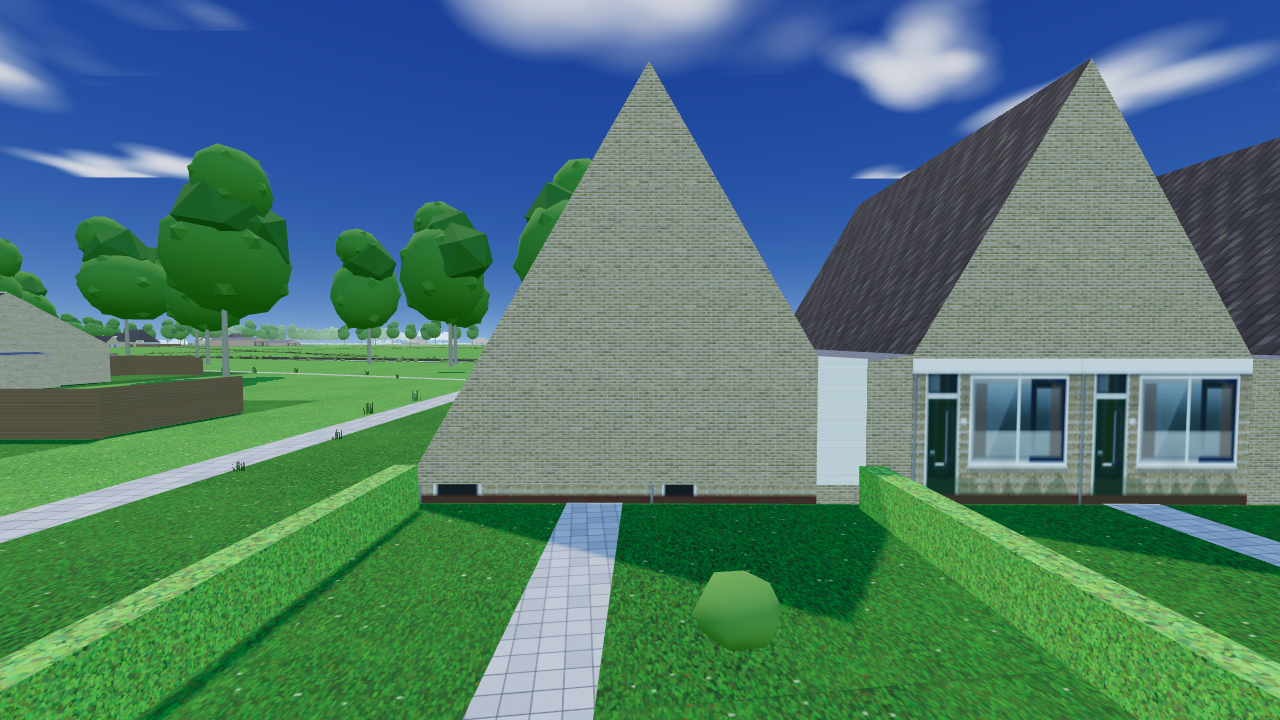
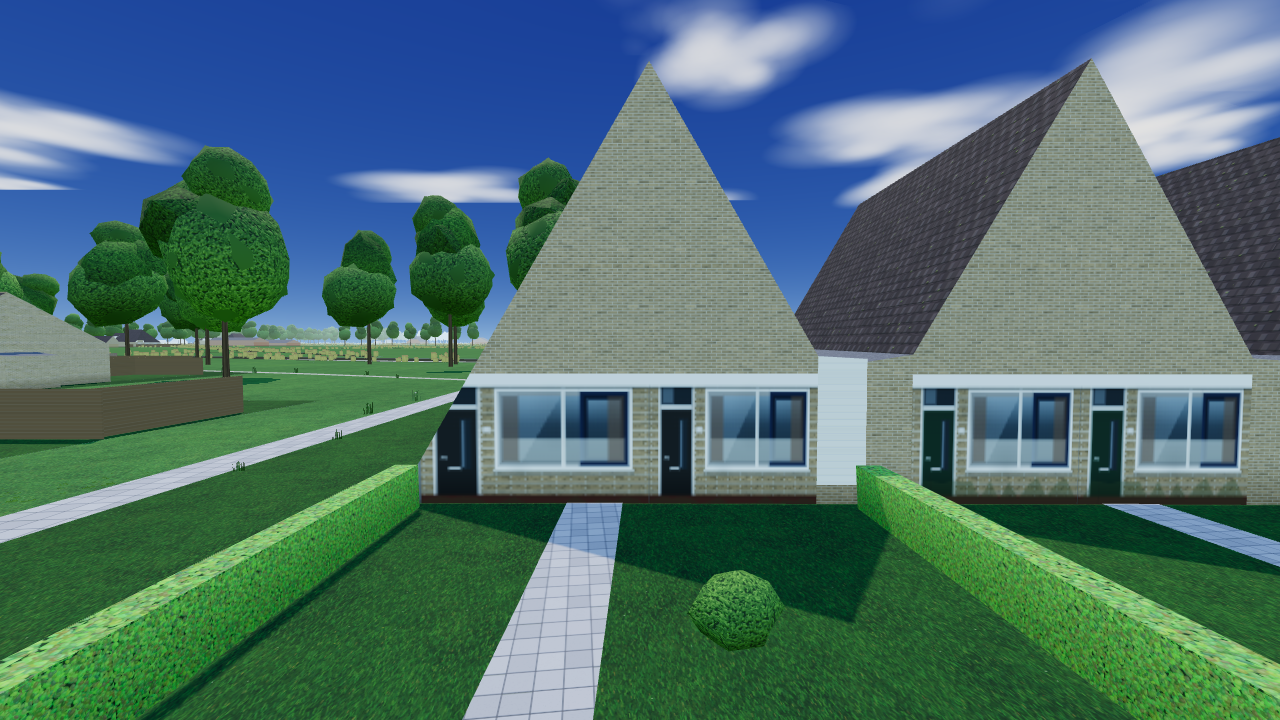
Stap 155: de avondshaders na het opstarten in stukjes, en de voorgevels nagemeten
- warmDeAvondOpInStukjes: het voorvertalen van de avondstand (15 s headless)
  gebeurt na het opstarten in 24 stukjes; voorbereidSpel wacht op avondBelofte
- opstarttest: de avondstand niet meer in het opstarten, en daarna vertaalt
  een heel avondbeeld niets meer
- npm run voorgeveltest: zeven stralen over de voorkant van elke woning,
  98,0 % op een gevel met deur of ramen; de Vang 28/10/12 nagemeten
- de foto van de Vang vervangen; open punt 15 af

Claude-Session: https://claude.ai/code/session_01Qq4V9hLBj33ACehDrT6xv8

diff --git a/js/main.js b/js/main.js
@@ -2139,10 +2139,14 @@ async function voorbereidSpel() {
       }
     } finally { voorbereiden = false; }
     if (lodBelofte) await lodBelofte;
+    if (avondBelofte) await avondBelofte;
     try { warmDeAvondOp(); } catch (e) { console.warn('avond voorverwarmen mislukt', e); }
     if (laag && !wasAan) laag.classList.remove('aan');
     if (zwart) { zwart.style.transition = ''; zwart.style.opacity = wasAan ? '1' : '0'; }
-  } else if (lodBelofte) await lodBelofte;
+  } else {
+    if (lodBelofte) await lodBelofte;
+    if (avondBelofte) await avondBelofte;
+  }
 }
 let lodFilmBij = null;              // waar de LOD tijdens het filmpje het laatst bijgewerkt is
 async function voorFilm() {
@@ -2715,6 +2719,9 @@ function loop() {
     }
   }
   if (voorbereiden) return;           // de intro wordt klaargezet (`voorFilm`)
+  // (stap 155) zolang de avondstand in stukjes vertaald wordt en je in het menu staat: geen eigen beeld ertussen
+  // (headless kostte elk beeld ertussen tientallen seconden; op een pc staat de achtergrond even stil)
+  if (avondBezig && !player.active) return;
   werkKeuzeKnoppenBij();
   const now = performance.now(); const dt = Math.min(0.05, (now - last) / 1000); last = now; time += dt;
   /*
@@ -3247,11 +3254,46 @@ function sfeerNu() { try { return sfeer; } catch { return null; } }
 function warmDeAvondOp() {
   metAvondlampen(() => renderer.render(scene, camera));
 }
-try { warmDeAvondOp(); } catch (e) { console.warn('avond voorverwarmen mislukt', e); }
+/*
+ (stap 155) Hetzelfde, maar na het opstarten en in stukjes. Het ene beeld met de avondlampen kostte headless 15 van de
+ 52 seconden vóór het spel klaarstond (opstarttest: "de rest van de opzet (2)"), terwijl je dan nog in het menu staat.
+ Nu staan alle zichtbare meshes in een lijst, en per stukje tekent hij alleen een vierentwintigste deel ervan, op één beeldpunt
+ (de schaar): wat three vertaalt hangt aan het materiaal, de lampen en de mist, niet aan de grootte van het beeld. Het
+ beeld van de hoofdlus erna tekent alles weer gewoon. `voorbereidSpel` (Start spel) wacht op `avondBelofte`.
+*/
+const AVOND_STUKJES = 24;        // headless 0,5–5 s per stukje, op een pc een tiende daarvan
+let avondBezig = false;
+async function warmDeAvondOpInStukjes() {
+  avondBezig = true;
+  try { return await avondStukjes(); } finally { avondBezig = false; }
+}
+async function avondStukjes() {
+  const lijst = [];
+  scene.traverseVisible(o => { if (o.material && (o.isMesh || o.isLine || o.isPoints || o.isSprite)) lijst.push(o); });
+  const per = Math.ceil(lijst.length / AVOND_STUKJES);
+  const vp = renderer.getViewport(new THREE.Vector4()), sc = renderer.getScissor(new THREE.Vector4()), scAan = renderer.getScissorTest();
+  for (let k = 0; k < AVOND_STUKJES; k++) {
+    await geefBeeldTerug();
+    const van = k * per, tot = Math.min(lijst.length, van + per);
+    try {
+      for (let i = 0; i < lijst.length; i++) lijst[i].visible = i >= van && i < tot;
+      renderer.setViewport(0, 0, 1, 1); renderer.setScissor(0, 0, 1, 1); renderer.setScissorTest(true);
+      metAvondlampen(() => renderer.render(scene, camera));
+    } catch (e) { console.warn('avond voorverwarmen mislukt', e); } finally {
+      for (const o of lijst) o.visible = true;
+      renderer.setViewport(vp); renderer.setScissor(sc); renderer.setScissorTest(scAan);
+    }
+  }
+  return lijst.length;
+}
+let avondBelofte = null;
 
 opstartStap('het eerste beeld');
 loop();
 opstartStap('na het eerste beeld');
+// (stap 155) de avondstand pas nu, in stukjes (zie `warmDeAvondOpInStukjes`)
+avondBelofte = warmDeAvondOpInStukjes().then(n => { console.log(`avond: ${n} meshes in ${AVOND_STUKJES} stukjes voorvertaald`); return n; },
+  e => { console.warn('avond voorverwarmen mislukt', e); return 0; });
 
 /*
  De wereld staat er; nu wachten we op de keuze uit het menu. Die kan al gemaakt
@@ -3283,7 +3325,7 @@ window.__game = {
   // de wapenpas en het voorvlak, voor tools/cliptest.mjs
   tekenWapen, cameraNear: CAMERA_NEAR,
   // het reliëf in één keer afmaken (de proeven), en hoever het is
-  reliëfAf, get reliëfBezig() { return !!reliëf; }, voorFilm, voorbereidSpel, zetVoorvlak, __envBakken: () => envBakken, get lodFilmBij() { return lodFilmBij; },
+  reliëfAf, get reliëfBezig() { return !!reliëf; }, get avondBelofte() { return avondBelofte; }, warmDeAvondOp, voorFilm, voorbereidSpel, zetVoorvlak, __envBakken: () => envBakken, get lodFilmBij() { return lodFilmBij; },
   // licht (tools/lichttest.mjs): de omgeving opnieuw bakken en de schaduwdoos
   bakOmgeving, werkOmgevingBij, zetSchaduwDoos, get omgevingGebakken() { return envBakken; }, sun,
   schaduw: { map: SHADOW_MAP, r: SHADOW_R, vooruit: SHADOW_VOORUIT },

diff --git a/CLAUDE.md b/CLAUDE.md
@@ -386,7 +386,7 @@ uit gaat) en naast de voordeur een **oprit** waar je auto blijft staan.
 
 Er is één `npm run <naam>test` en meestal een `<naam>shots` per onderwerp; ze
 staan allemaal in `tools/` en draaien via Playwright op een headless Chromium.
-De laatste die ertoe doen: `npm run voetgangertest` (stap 154: variatie, schaal nul, ≤ 4000 driehoeken, jas en paraplu, bankje, de Poiesz in en uit met de deuren, de fiets in het rek, bellen, schrik, grof tussen 200 en 350 m, geen nieuw programma) met `voetgangershots`; `npm run zuilengangtest` (stap 152: door de gang lopen, de winkel en het pand dicht, geen gras, de schuifdeuren, E naar binnen en buiten) met `zuilengangshots`; `npm run mensechttest` (sinds stap 153 ook oogwit, irissen op het gezicht, vier vingers, de haarlijn) met `gezichtshots`; `npm run autoechttest` (sinds stap 151 ook: portiergrepen plat in de flank, de uitlaat niet ver achter de bumper; de plas licht telt niet meer als mesh, dus weer groen); `npm run binnentest` (stap 151: van buiten steekt niets van het interieur uit; stap 150: de klokken niet ingezonken, de pookknop, de kijkhoek van de bestuurder en 78° in het spel; stap 149: het dashboard tot aan de voorruit, de hemel, spiegel en kleppen binnen de ruiten; `ALLEEN_MODELLEN=1` slaat het deel in het spel over; stap 146–148: ook de klokken te zien, de radio per zender, de nacht, één dashboard; het interieur van elke soort uit de ogen gemeten — het stuur vóór je, de klokken in beeld, vrij zicht door de voorruit, stuur en naald die meelopen, de pook; de doeken, de onderdelen, de stijlbekleding, de stoelen onder de hemel, het aantal driehoeken; en in het spel geen nieuw programma) met `binnenshots` (binnen_<soort>.png, met `BUITEN=1` van buiten, met `NACHT=1` 's nachts); `npm run politieslimtest` (stap 144, 49 controles: het zicht als getal, verstoppen aan een echte struik en in het bos, de hud VERSTOPT, 's nachts de zaklamp, de raakkans, dekking gezocht en gebruikt zonder schot vanuit de dekking, gericht zoeken, een achtertuin via de looproute, terug naar de auto, rammen, insluiten, omsingelen, de zaklamp vangt geen kogels, geen nieuwe shader) met `politieslimshots` (politie_dekking, politie_zaklamp, politie_verstopt); `npm run figurantentest` (stap 143: de stafauto in het bunkerdorp is het eigen model, de Duitsers van No Mercy 4 nooit door elkaar en ieder een eigen doel, rode flitsen zonder schade in No Mercy 4 en 5, een gewone Bewaking ongemoeid, het MG met schade 0); `npm run stafautotest` (stap 142, en sinds stap 145 het interieur: uit tot je erin zit, ogen, klok, stuur, panelen, naald, spiegel; de stafauto en het zijspan als eigen modellen — de userData voor js/vehicles.js, de maten, de wielen op de grond, het zijdoek over de zijplaat, de materiaalregels, de kap de goede kant op, het reservewiel; laadt alleen js/nomercy5.js) met `stafautoshots` (drie foto's, eigen zon op een lege pagina); `npm run nomercy5test` (stap 142: No Mercy 5 — pas na missie 12 en No Mercy 4, de EJ en één melding en nooit een telefoon, de plekken gemeten (kade, water, MG-nest, posten, vlag, de stelling, de route zonder keerpunt), de nacht, de bruikleen, varen met de camera-boot ernaast en op het water, het zoeklicht, de molen met 1–3 treffers zonder schade, de vlag, de rit met een automaat (camera-auto op de weg, zijspannen, geen Cut), de wrap, de première, beide keuzes met opslaan en laden, drie soorten Cut, opruimen bij mislukken, neergaan, X, laden en een nieuwe missie, shift+komma, de tussenpoos, geen nieuwe shader) met `nomercy5shots` (vier foto's); `npm run postbodetest` (stap 141: de postbode alleen 8–11:30 en bij de speler, minstens drie deuren, stil bij de deur met arm en envelop, de klep, elk beeld buiten de botsdozen en panden en geen stap door een muur, nooit in beeld ontstaan of verdwijnen, raken/aanrijden/schrikken en de volgende ochtend terug, geen nieuwe shader) met `postbodeshots` (`postbode.png`); `npm run nomercy2test` (stap 141: No Mercy 4, het bunkerdorp — de plek gemeten tegen bomen, water, grond en botsdozen, sluipen achter de schildwachten langs, de kaart, het luchtalarm, zes figuranten zonder schade, de radiopost, de close-up waar bewegen niet telt, het klapbord, beide keuzes met opslaan en laden, gezien en gehoord zonder herstart, een eigen M1, de grens vanaf het kamp, opruimen, geen nieuwe shader) met nomercy_kamp, nomercy_radio en nomercy_klapbord in `nomercyshots`; `npm run nomercytest` (stap 140: No Mercy 4 — het EJ-speldje na missie 5, het telefoontje na 30 s en niet tijdens een klus, de bruikleen, de set gemeten tegen bomen en botsdozen, de cameraman < 8 m, de knal, Duitsers die schieten zonder schade en neergaan na hun eigen 1–3 treffers, het bos uit, sinds stap 141 "nu de tweede take!" en het bunkerdorp in (het einde en een eigen M1 staan in nomercy2test), opruimen bij mislukken, neergaan, X en laden, de tussenpoos, opslaan, geen nieuwe shader) met `nomercyshots` (drie foto's); `npm run m1geluidtest` (stap 139: de opnames van de M1 en de stad gemeten, gains, afstand, afkappen; laadt alleen js/audio.js, dus snel); `npm run droneklustest` en `npm run m1test` (stap 132: de drone-klus en de M1 Garand) met `droneklusshots` en `m1shots`; `npm run wensen5test` (stap 131: Martens Vishandel, pizza bezorgen, tennis, zeilbootjes, onweer, tuning met decals, Tinga Nieuws op de tv, aan de knoppen van Radio Tinga) met `wensen5shots` (vier foto's); `npm run wensen4test` (stap 130: missiemuziek 2 en de schuif, Ren Lenny Ren en de zender 100% NL, de muren van de rondweg en de grens op de N7, niet verdwijnen in beeld, paniek bij de inslag, de achtergrond per stad en nacht, de vlag naar missie 15–18, achtergelaten auto's terug, schieten op Bouwman in missie 15, aanval en flank bij de politie) met `wensen4shots` (één foto); `npm run wensen3test` (stap 129: spelen in volledig scherm als blijvende keuze, Kali uit het radiootje van missie 1 en op Radio Tinga, gele ringen onder de schutters, Wiebe, Mark en Johan schieten uit de auto, de Ferrari wendbaarder en harder remmen, meer verkeer, de ambulancebroeders te raken) met `wensen3shots` (één foto); `npm run wensen2test` (stap 128: achtergronden 75 % zachter, NaN geweigerd in een AudioParam, de mouw met een elleboog, rennen zonder schokken, shift-boost in auto en boot, geen oeverwanden in het water, de camera bij een boomstam, de uitleg thuis, Mark praat onderweg in missie 7 met de gele cirkel, de J of M vóór het telefoontje, missie 8 € 2.500, de boot over het water, ambulances en vrachtwagens, vuur van beneden met tracers, zwaailichten bij Bouwman, de loods op afstand) met `wensen2shots` (drie foto's); `npm run wensentest` (stap 127: de geluiden van de gebruiker, de heli met wapen en kogels die niet opraken, Bouwman harder, de handlangers, het zwaardere gevecht, het schudden op de Dúvelsrak en de route naar Radio Tinga, vuurwerk om tien uur, de Ferrari van binnen, je auto bij huis, voetbal met balbezit, de mouw achter de camera, de drone terug in bereik, volledig scherm, opgeslagen spellen, de vloer bij de BP) met `wensenshots` (zeven foto's); `npm run kleinwinsttest` (stap 126: het klokje, slapen tot de ochtend met Z, de minikaart op de drone, wisselend weer — geleidelijk, met de hand meteen, uit te zetten —, kliko's langs de vuilniswagen, twinkelende sterren; punt 9 en 10 staan in `huistest` en `verhaaltest`); `npm run tijdtest` (stap 125: de klok loopt vanaf het begin, 48 minuten per dag, T als schakelaar, de instellingen, een missie overdag en stil, wachten onder de M, laden zonder sprong, de nacht van de race, de vuilniswagen van Súdwest-Fryslân); `npm run dronetest` (stap 124: de drone — kopen, opslag, vliegen, gebouwen, de drie grenzen met OUT OF RANGE en tien tellen, kwijt, accu, E/B, foto, nooit een ster —, vogels in het water, meeuwen bij IJlst, sterren, ochtendmist, knipperlichten, joggers, vuilniswagen, terras, autoschade, remsporen, geen nieuwe shaders) met `droneshots` (negen foto's); `npm run zespuntentest` (stap 123: het mes — altijd, vanzelf bij alles leeg, een steek op 1,6 m raak en op 6 m niet, geen schot te horen —, de GTI, de uitleg bij de eerste ster en de grote kaart, de wapens van de anderen, oversteken in plaats van springen, missie opnieuw vanuit het pauzemenu) met `zespuntenshots` (drie foto's); `npm run naloop3test` (stap 122, missie 16–18 en het uitje nagelopen: laden tijdens de montage en het filmbeeld op het dek, na de montage buiten bij Mark en Johan, neergaan bij de loods en op de brug, het uitje dat niet meer vastloopt, auto's die niet stapelen, te voet op het dek na laden, de worst en de kluis van missie 17, niet opslaan net na een missie); `npm run naloop2test` (stap 121, missie 11–15 nagelopen: missie 12 klaar ook na neergaan in Marks gesprek, de hekken van missie 12 in de opslag en door naar de C4, het konvooi stapelt niet, laden ruimt het dek, de race en het volgen op, "Een paar dagen later" blijft zwart, laden na de finish of na het verliezen, laden midden in de race op de grid, neergaan in een race voor geld, mislukt zonder sterren); `npm run nalooptest` (stap 120, missie 6–10 nagelopen: de BX heel terug bij opnieuw beginnen en na een knal, missie 6 laden in een nieuwe sessie zonder tweede BX, missie 7 zonder muziek bij de M en zonder achtergebleven auto's, missie 8 opnieuw vanaf 'terug' in de sloep met de waterpolitie, opruimen bij laden, het herstelpunt in de opslag, missie 9 gezien/klus/knoppen/toonbank, neergaan sluit een gesprek); `npm run beginmissietest` (stap 119: missie 1 de man die opspringt en terugschiet, missie 2 Mark praat onderweg, missie 4 alarm, Mark bij de boerderij en € 500, missie 5 de dief langzamer te voet en de tuinen in voor een auto, het muziekje van de intro in de heli van missie 18 met fade in en fade out) met `beginmissieshots` (vijf foto's), en `npm run introtest` (sinds stap 119 ook het beeld bij VV Sneek: even lang als de Poiesz ervoor, een kraan, het bord van Radio Spannenburg, de wedstrijd in de film); `npm run opzettest` (de opzet voor een nieuwe speler: de besturing in het menu, Spel laden met datum, een onleesbare opslag, Start spel vraagt eerst, Opslaan in de pauze, een ander tabblad pauzeert, keuzeknoppen voor een aanraakscherm, een mislukte missie laadt niet je opslag, de uitleg bij het eerste checkpoint, geen voorwerpen in de rijbaan, geen 404; stap 118); `npm run opslagtest` (F5 niet in het menu, een gesprek of een filmbeeld; laden midden in een
+De laatste die ertoe doen: `npm run voorgeveltest` (stap 155: zeven stralen op deurhoogte over de voorkant van elke woning, ≥ 97,5 % op een gevel met openingen (`nachtRamen`), de Vang 28/10/12 van 0,5 tot 2,6 m, en de lijst per straat); `npm run opstarttest` (sinds stap 155 ook: de avondstand niet meer in het opstarten, en na `avondBelofte` vertaalt een heel avondbeeld niets meer); `npm run voetgangertest` (stap 154: variatie, schaal nul, ≤ 4000 driehoeken, jas en paraplu, bankje, de Poiesz in en uit met de deuren, de fiets in het rek, bellen, schrik, grof tussen 200 en 350 m, geen nieuw programma) met `voetgangershots`; `npm run zuilengangtest` (stap 152: door de gang lopen, de winkel en het pand dicht, geen gras, de schuifdeuren, E naar binnen en buiten) met `zuilengangshots`; `npm run mensechttest` (sinds stap 153 ook oogwit, irissen op het gezicht, vier vingers, de haarlijn) met `gezichtshots`; `npm run autoechttest` (sinds stap 151 ook: portiergrepen plat in de flank, de uitlaat niet ver achter de bumper; de plas licht telt niet meer als mesh, dus weer groen); `npm run binnentest` (stap 151: van buiten steekt niets van het interieur uit; stap 150: de klokken niet ingezonken, de pookknop, de kijkhoek van de bestuurder en 78° in het spel; stap 149: het dashboard tot aan de voorruit, de hemel, spiegel en kleppen binnen de ruiten; `ALLEEN_MODELLEN=1` slaat het deel in het spel over; stap 146–148: ook de klokken te zien, de radio per zender, de nacht, één dashboard; het interieur van elke soort uit de ogen gemeten — het stuur vóór je, de klokken in beeld, vrij zicht door de voorruit, stuur en naald die meelopen, de pook; de doeken, de onderdelen, de stijlbekleding, de stoelen onder de hemel, het aantal driehoeken; en in het spel geen nieuw programma) met `binnenshots` (binnen_<soort>.png, met `BUITEN=1` van buiten, met `NACHT=1` 's nachts); `npm run politieslimtest` (stap 144, 49 controles: het zicht als getal, verstoppen aan een echte struik en in het bos, de hud VERSTOPT, 's nachts de zaklamp, de raakkans, dekking gezocht en gebruikt zonder schot vanuit de dekking, gericht zoeken, een achtertuin via de looproute, terug naar de auto, rammen, insluiten, omsingelen, de zaklamp vangt geen kogels, geen nieuwe shader) met `politieslimshots` (politie_dekking, politie_zaklamp, politie_verstopt); `npm run figurantentest` (stap 143: de stafauto in het bunkerdorp is het eigen model, de Duitsers van No Mercy 4 nooit door elkaar en ieder een eigen doel, rode flitsen zonder schade in No Mercy 4 en 5, een gewone Bewaking ongemoeid, het MG met schade 0); `npm run stafautotest` (stap 142, en sinds stap 145 het interieur: uit tot je erin zit, ogen, klok, stuur, panelen, naald, spiegel; de stafauto en het zijspan als eigen modellen — de userData voor js/vehicles.js, de maten, de wielen op de grond, het zijdoek over de zijplaat, de materiaalregels, de kap de goede kant op, het reservewiel; laadt alleen js/nomercy5.js) met `stafautoshots` (drie foto's, eigen zon op een lege pagina); `npm run nomercy5test` (stap 142: No Mercy 5 — pas na missie 12 en No Mercy 4, de EJ en één melding en nooit een telefoon, de plekken gemeten (kade, water, MG-nest, posten, vlag, de stelling, de route zonder keerpunt), de nacht, de bruikleen, varen met de camera-boot ernaast en op het water, het zoeklicht, de molen met 1–3 treffers zonder schade, de vlag, de rit met een automaat (camera-auto op de weg, zijspannen, geen Cut), de wrap, de première, beide keuzes met opslaan en laden, drie soorten Cut, opruimen bij mislukken, neergaan, X, laden en een nieuwe missie, shift+komma, de tussenpoos, geen nieuwe shader) met `nomercy5shots` (vier foto's); `npm run postbodetest` (stap 141: de postbode alleen 8–11:30 en bij de speler, minstens drie deuren, stil bij de deur met arm en envelop, de klep, elk beeld buiten de botsdozen en panden en geen stap door een muur, nooit in beeld ontstaan of verdwijnen, raken/aanrijden/schrikken en de volgende ochtend terug, geen nieuwe shader) met `postbodeshots` (`postbode.png`); `npm run nomercy2test` (stap 141: No Mercy 4, het bunkerdorp — de plek gemeten tegen bomen, water, grond en botsdozen, sluipen achter de schildwachten langs, de kaart, het luchtalarm, zes figuranten zonder schade, de radiopost, de close-up waar bewegen niet telt, het klapbord, beide keuzes met opslaan en laden, gezien en gehoord zonder herstart, een eigen M1, de grens vanaf het kamp, opruimen, geen nieuwe shader) met nomercy_kamp, nomercy_radio en nomercy_klapbord in `nomercyshots`; `npm run nomercytest` (stap 140: No Mercy 4 — het EJ-speldje na missie 5, het telefoontje na 30 s en niet tijdens een klus, de bruikleen, de set gemeten tegen bomen en botsdozen, de cameraman < 8 m, de knal, Duitsers die schieten zonder schade en neergaan na hun eigen 1–3 treffers, het bos uit, sinds stap 141 "nu de tweede take!" en het bunkerdorp in (het einde en een eigen M1 staan in nomercy2test), opruimen bij mislukken, neergaan, X en laden, de tussenpoos, opslaan, geen nieuwe shader) met `nomercyshots` (drie foto's); `npm run m1geluidtest` (stap 139: de opnames van de M1 en de stad gemeten, gains, afstand, afkappen; laadt alleen js/audio.js, dus snel); `npm run droneklustest` en `npm run m1test` (stap 132: de drone-klus en de M1 Garand) met `droneklusshots` en `m1shots`; `npm run wensen5test` (stap 131: Martens Vishandel, pizza bezorgen, tennis, zeilbootjes, onweer, tuning met decals, Tinga Nieuws op de tv, aan de knoppen van Radio Tinga) met `wensen5shots` (vier foto's); `npm run wensen4test` (stap 130: missiemuziek 2 en de schuif, Ren Lenny Ren en de zender 100% NL, de muren van de rondweg en de grens op de N7, niet verdwijnen in beeld, paniek bij de inslag, de achtergrond per stad en nacht, de vlag naar missie 15–18, achtergelaten auto's terug, schieten op Bouwman in missie 15, aanval en flank bij de politie) met `wensen4shots` (één foto); `npm run wensen3test` (stap 129: spelen in volledig scherm als blijvende keuze, Kali uit het radiootje van missie 1 en op Radio Tinga, gele ringen onder de schutters, Wiebe, Mark en Johan schieten uit de auto, de Ferrari wendbaarder en harder remmen, meer verkeer, de ambulancebroeders te raken) met `wensen3shots` (één foto); `npm run wensen2test` (stap 128: achtergronden 75 % zachter, NaN geweigerd in een AudioParam, de mouw met een elleboog, rennen zonder schokken, shift-boost in auto en boot, geen oeverwanden in het water, de camera bij een boomstam, de uitleg thuis, Mark praat onderweg in missie 7 met de gele cirkel, de J of M vóór het telefoontje, missie 8 € 2.500, de boot over het water, ambulances en vrachtwagens, vuur van beneden met tracers, zwaailichten bij Bouwman, de loods op afstand) met `wensen2shots` (drie foto's); `npm run wensentest` (stap 127: de geluiden van de gebruiker, de heli met wapen en kogels die niet opraken, Bouwman harder, de handlangers, het zwaardere gevecht, het schudden op de Dúvelsrak en de route naar Radio Tinga, vuurwerk om tien uur, de Ferrari van binnen, je auto bij huis, voetbal met balbezit, de mouw achter de camera, de drone terug in bereik, volledig scherm, opgeslagen spellen, de vloer bij de BP) met `wensenshots` (zeven foto's); `npm run kleinwinsttest` (stap 126: het klokje, slapen tot de ochtend met Z, de minikaart op de drone, wisselend weer — geleidelijk, met de hand meteen, uit te zetten —, kliko's langs de vuilniswagen, twinkelende sterren; punt 9 en 10 staan in `huistest` en `verhaaltest`); `npm run tijdtest` (stap 125: de klok loopt vanaf het begin, 48 minuten per dag, T als schakelaar, de instellingen, een missie overdag en stil, wachten onder de M, laden zonder sprong, de nacht van de race, de vuilniswagen van Súdwest-Fryslân); `npm run dronetest` (stap 124: de drone — kopen, opslag, vliegen, gebouwen, de drie grenzen met OUT OF RANGE en tien tellen, kwijt, accu, E/B, foto, nooit een ster —, vogels in het water, meeuwen bij IJlst, sterren, ochtendmist, knipperlichten, joggers, vuilniswagen, terras, autoschade, remsporen, geen nieuwe shaders) met `droneshots` (negen foto's); `npm run zespuntentest` (stap 123: het mes — altijd, vanzelf bij alles leeg, een steek op 1,6 m raak en op 6 m niet, geen schot te horen —, de GTI, de uitleg bij de eerste ster en de grote kaart, de wapens van de anderen, oversteken in plaats van springen, missie opnieuw vanuit het pauzemenu) met `zespuntenshots` (drie foto's); `npm run naloop3test` (stap 122, missie 16–18 en het uitje nagelopen: laden tijdens de montage en het filmbeeld op het dek, na de montage buiten bij Mark en Johan, neergaan bij de loods en op de brug, het uitje dat niet meer vastloopt, auto's die niet stapelen, te voet op het dek na laden, de worst en de kluis van missie 17, niet opslaan net na een missie); `npm run naloop2test` (stap 121, missie 11–15 nagelopen: missie 12 klaar ook na neergaan in Marks gesprek, de hekken van missie 12 in de opslag en door naar de C4, het konvooi stapelt niet, laden ruimt het dek, de race en het volgen op, "Een paar dagen later" blijft zwart, laden na de finish of na het verliezen, laden midden in de race op de grid, neergaan in een race voor geld, mislukt zonder sterren); `npm run nalooptest` (stap 120, missie 6–10 nagelopen: de BX heel terug bij opnieuw beginnen en na een knal, missie 6 laden in een nieuwe sessie zonder tweede BX, missie 7 zonder muziek bij de M en zonder achtergebleven auto's, missie 8 opnieuw vanaf 'terug' in de sloep met de waterpolitie, opruimen bij laden, het herstelpunt in de opslag, missie 9 gezien/klus/knoppen/toonbank, neergaan sluit een gesprek); `npm run beginmissietest` (stap 119: missie 1 de man die opspringt en terugschiet, missie 2 Mark praat onderweg, missie 4 alarm, Mark bij de boerderij en € 500, missie 5 de dief langzamer te voet en de tuinen in voor een auto, het muziekje van de intro in de heli van missie 18 met fade in en fade out) met `beginmissieshots` (vijf foto's), en `npm run introtest` (sinds stap 119 ook het beeld bij VV Sneek: even lang als de Poiesz ervoor, een kraan, het bord van Radio Spannenburg, de wedstrijd in de film); `npm run opzettest` (de opzet voor een nieuwe speler: de besturing in het menu, Spel laden met datum, een onleesbare opslag, Start spel vraagt eerst, Opslaan in de pauze, een ander tabblad pauzeert, keuzeknoppen voor een aanraakscherm, een mislukte missie laadt niet je opslag, de uitleg bij het eerste checkpoint, geen voorwerpen in de rijbaan, geen 404; stap 118); `npm run opslagtest` (F5 niet in het menu, een gesprek of een filmbeeld; laden midden in een
 gesprek per missie, doorschuiven na missie 1–3, Johan na missie 4, missie 6, 8 en 9 midden, het geld van missie 7, checkpoints
 bij het begin van missie 2–6 en niet in een gesprek, een klus vóór missie 6, Doorgaan, shift + cijfer, blur; stap 117); `npm run ramentest` (de ramen 's avonds van dichtbij, oud tegen nieuw op dezelfde gevel: evenveel licht,
 minder harde sprongen, een kortere rand; maakt ramen_oud.png en ramen_nieuw.png; stap 116); `npm run uitjetest` (na het einde de M bij Molenkrite 15: de keuze, de wedstrijd op het
@@ -475,6 +475,9 @@ groen), `npm run veteraanshots` (vijf foto's), `npm run huistest`
   zet `autoUpdate` uit; een meting of foto die de schaduw wil zien zet hem zelf.
   De bomen werpen hun schaduw via `werkSchaduwBomenBij` (rond de schaduwdoos),
   niet via hun tegels.
+- **De avondstand wordt na het opstarten in stukjes vertaald** (stap 155, `warmDeAvondOpInStukjes` in js/main.js, `avondBelofte`):
+  zolang dat loopt slaat de hoofdlus in het menu zijn beeld over (`avondBezig`). Een proef die de avond meet of
+  shaderprogramma's telt over een `await` heen, wacht eerst op `__game.avondBelofte` (of `voorbereidSpel`, dat erop wacht).
 - **Verander tijdens het spelen nooit het aantal zichtbare lichtbronnen** (stap 83).
   Three vertaalt dan élk materiaal opnieuw. Regel met `intensity`, niet met
   `visible`, en laat het aantal hoogstens bij zonsopkomst en zonsondergang
@@ -674,10 +677,11 @@ Kort; de volledige lijst met uitleg staat onderaan `docs/METHODIEK.md`.
 2. Wegblokkades aan de rand van de wereld (het mechanisme staat er, de plekken
    moeten van de gebruiker komen — **K** zet je positie op het klembord). Sinds stap 130 ook een grens zonder hek
    (`GRENZEN` in js/afsluiting.js), de eerste op de N7 bij (−364, −614).
-3. Steekproef van adressen: woningtype, goothoogte, voorgevelrichting.
-4. Alleen bouwen wat in de buurt is. Het opstarten is van 72 naar 39 s headless
-   (gevels en reliëf komen na het opstarten, stap 75); wat er nog zit zijn de
-   gebouwen (13 s), het riet (5 s) en het eerste beeld (10 s).
+3. Steekproef van adressen: woningtype, goothoogte, voorgevelrichting. Sinds stap 155 meet `npm run voorgeveltest` de voorkant
+   van elke woning (98,0 % met openingen) en noemt per straat wat nog met foto's nagelopen moet worden.
+4. Alleen bouwen wat in de buurt is. Het opstarten is van 72 naar ~46 s headless
+   (gevels en reliëf komen na het opstarten, stap 75; de avondshaders na het opstarten in stukjes, stap 155); wat er
+   nog zit: het eerste beeld (~15 s, het vertalen van de shaders), de gebouwen (7 s), de ondergrond en de straten (5 s elk).
 5. Dakdetails en de achterkant van het Kruirad.
 6. Straten zonder foto: Windbord, Voorzoom, Buitenroede 40–74, Zeskanter, Omloop.
 7. De editor (F2) en de oude objecten uit `data.js` rekenen nog in pixels.
@@ -690,7 +694,7 @@ Kort; de volledige lijst met uitleg staat onderaan `docs/METHODIEK.md`.
     al van vóór stap 75.
 14. Belichting: echte SSAO (nu alleen omgevingsschaduw aan de voet van de muren,
     js/licht.js). Scherpere schaduw en de reflectie met de klok mee zijn af.
-15. **Voorgevel de Vang**: alleen steen, geen deur of ramen (oude melding).
+15. ~~Voorgevel de Vang~~: sinds stap 155 nagemeten, de voorgevel met deur en ramen loopt van de grond tot 2,6 m (`voorgeveltest`).
 16. Dakkapellen: het doek van de voorkant wordt over de hele kapel uitgerekt
     (13 % van de kapeldriehoeken wijkt meer dan 1,8 keer af; gebouwtest).
 17. ~~De wapens van de NPC's~~: sinds stap 123 afgeronde, gedeelde modellen (`npcWapen` in js/persoon.js).

diff --git a/docs/METHODIEK.md b/docs/METHODIEK.md
@@ -9026,6 +9026,32 @@ open, binnen uit beeld, weer naar buiten, de deuren dicht), de fiets (het rek, g
 (de telefoon bij het hoofd), schrik op het bankje, grof precies tussen 200 en 350 m, en geen nieuw shaderprogramma. Foto's:
 `npm run voetgangershots` (rij, poiesz, bank, regen); `npm run gezichtshots` heeft nu een gevarieerde rij.
 
+**De wereld: de voorgevels nagemeten en de avond na het opstarten (stap 155, 14 okt).**
+
+Gevraagd: "wereld 2 en 3" — de steekproef van woningen (goothoogte, voorgevelrichting, de Vang, straten zonder foto)
+en de opstarttijd.
+- *De opstarttijd* (`npm run opstarttest`, headless): 52,3 s. Met tijdelijke meetpunten in "de rest van de opzet (2)"
+  bleek 15,2 van de 15,4 s één regel: `warmDeAvondOp`, één beeld met alle avondlampen aan zodat three de avondshaders
+  vooraf vertaalt. Dat gebeurt nu na het opstarten (`warmDeAvondOpInStukjes`): alle zichtbare meshes in een lijst, per
+  stukje een vierentwintigste deel zichtbaar, getekend op één beeldpunt (de schaar; wat three vertaalt hangt aan het
+  materiaal, de lampen en de mist, niet aan de grootte van het beeld). `voorbereidSpel` wacht op `avondBelofte`.
+  - Het eerste beeld werd 8,5 s duurder: wat niet van de lampen afhangt (basismaterialen, de schaduw) vertaalde het
+    avondbeeld er eerst al voor. Netto zijn de twee fasen samen 21,3 → 14,7 s; het totaal schommelt hier een paar
+    seconden (de gebouwen 6,6 tot 9,4 s in drie metingen), dus de proef toetst de twee fasen samen.
+  - De eerste versie in twaalf stukjes was headless pas na 345 s klaar: tussen elk stukje tekende de hoofdlus een heel
+    beeld. Nu slaat de hoofdlus in het menu zijn beeld over zolang het loopt (`avondBezig`); los gemeten 21 s.
+  - Na de stukjes vertaalt een heel avondbeeld niets meer (95 → 95 programma's, op een pagina zonder reliëf: met reliëf
+    veranderen de materialen onderweg). `vloeiendtest` blijft groen.
+- *De voorgevels* (`npm run voorgeveltest`, nieuw): zonder foto's van de straat (Street View is vanuit deze omgeving niet
+  bereikbaar) gemeten wat wel te meten is: kijkt de voorkant van een woning naar een gevel met deur en ramen? Zeven stralen
+  op 1,2 m van de straatkant over de breedte van de voorkant; een gevel met openingen heeft `nachtRamen` in zijn materiaal.
+  Na het bijwerken van de LOD hebben de gevelmeshes geen naam meer (de eerste meting vond daardoor 0 van 4653), het
+  materiaal wel. Met één straal in het midden 92,7 %: vóór het midden staat vaak een berging of uitbouw met een blinde muur
+  (op de foto's te zien). Met zeven: **98,0 %**. De rest noemt de proef per straat (rijen bergingen met een letter achter
+  het huisnummer aan de Pikpôllewei, eindgevels aan de Jasker, een paar in het gebogen blok in Duinterpen).
+  - *De Vang*: de voorgevel van 28 (goot 0,51 m) loopt nu van de grond tot boven de deur; de dakkapel over de deur uit de
+    melding van 19 september staat er niet meer. Open punt 15 is daarmee af; de foto in de README is vervangen.
+
 **Wat nog niet af is** (in volgorde).
 
 Van de vijf punten die de gebruiker expliciet voor later had laten liggen zijn er

diff --git a/README.md b/README.md
@@ -970,6 +970,12 @@ gebruikt. Riet: **29 → 4,3 s**.
 | laadtijd tot speelbaar | 67,8 s | **44,4 s** |
 | langste bevriezing tijdens de opbouw | 43 s | **4,1 s** |
 
+**De avond wordt na het opstarten voorbereid** (stap 155). Het spel vertaalt de shaders voor de avond vooraf, zodat
+het niet hapert als de lantaarns aangaan. Dat was één beeld met alle avondlampen aan, vlak voordat het spel klaarstond:
+headless 15 van de 52 seconden. Nu gebeurt het daarna, terwijl je in het menu staat, in 24 kleine stukjes; Start spel
+wacht er zo nodig op. Gemeten (`npm run opstarttest`): de twee laatste fasen samen van **21,3 naar 14,7 s**, en na de
+stukjes vertaalt een heel avondbeeld geen enkele shader meer.
+
 De beelden voor het laadscherm staan in [`beeld/laadscherm/`](beeld/laadscherm/) met een lijstje in
 `beelden.json` — zet daar je eigen beelden neer. Is er niets, dan tekent `js/menu.js` zelf een
 achtergrond op een canvas, dus het werkt ook leeg.
@@ -4675,13 +4681,12 @@ driehoek van tien meter hoog zonder één opening. De knip gaat nu nooit lager d
 woonlaag, zodat de deur op zijn plek valt), tenzij de muur daar te laag voor is; een schuurtje van
 drie meter hoort geen woonlaag te krijgen.
 
-> **Dit punt is maar half af.** Gemeten in de wereld staat er nu een gevelvlak van 0 tot 3,24 m waar
-> eerst alleen steen zat — de gevel is er dus. Maar er staat nog iets vóór: het 3D BAG-model heeft op
-> dit adres een uitbouw van 0,53 tot 3,30 m met een eigen plat dakje, en die wordt als dakkapel
-> getekend, met witte wangen, precies over de voordeur heen. Twee dingen die daaraan zouden moeten
-> liggen zijn aangepast — een dakkapel wordt niet meer op kniehoogte gezet, en een muur die onder de
-> 2,40 m begint telt niet meer als kapelwang — maar in beeld verandert er niets, dus de oorzaak zit
-> ergens anders. Wat er nu staat is beter dan een blinde muur, maar de deur is nog niet te zien.
+Sinds stap 155 nagemeten (`npm run voorgeveltest`): aan de Vang 28, 10 en 12 (goot 0,51 tot 1,28 m)
+raakt een straal van voren op 0,5, 1,2, 2,0 en 2,6 m de voorgevel met deur en ramen; de dakkapel over
+de deur van toen staat er niet meer. En voor alle 4653 woningen: bij **98,0 %** raakt minstens één van
+zeven stralen over de breedte van de voorkant een gevel met openingen; de rest (bergingen met een
+huisnummer, eindgevels, een paar waar de voorkant misschien verkeerd ligt) noemt de proef per straat,
+om met foto's na te lopen.
 
 ![De voorgevel aan de Vang](docs/screenshots/vang_voorgevel.png)
 
